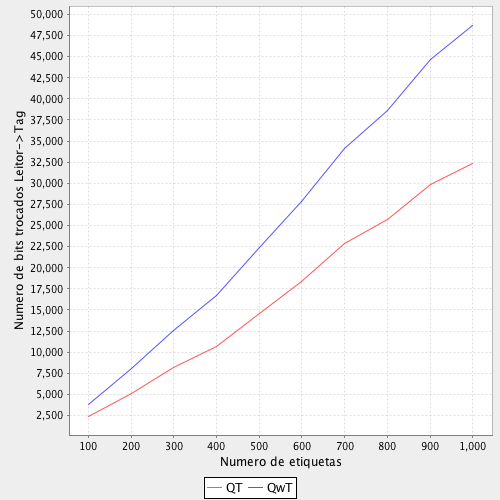
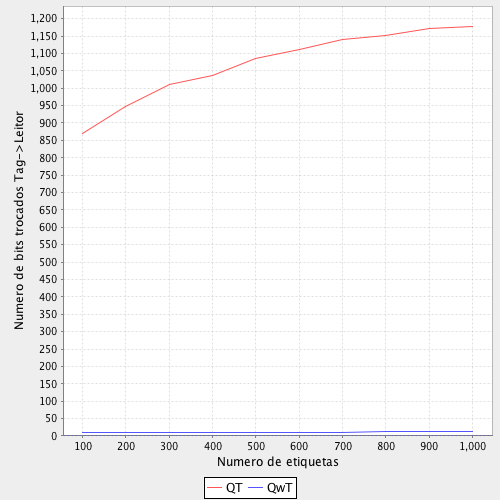
Corrigindo geracao do html

diff --git a/index/tree.html b/index/tree.html
@@ -6,13 +6,13 @@
 <body bgcolor="#EEEEEE">
 <h1>QT e QwT</h1>
 <h2>Bits transmitidos Leitor->Tag</h2>
-<img src="tree/bits-tag-leitor.png" />
-<img src="tree/artigo/bits-tag-leitor.png" />
-<h2>Bits Transmitidos Tag->Leitor</h2><img src="tree/bits-leitor-tag.png" />
-<img src="tree/artigo/bits-leitor-tag.png" />
+<img src="tree/bits-leitor-tag.png" />
+<img src="tree/artigo/bits-leitor-tag.png" height="500"/>
+<h2>Bits Transmitidos Tag->Leitor</h2><img src="tree/bits-tag-leitor.png" />
+<img src="tree/artigo/bits-tag-leitor.png"  height="500"/>
 <h2>Número de passos</h2>
 <img src="tree/iteracoes.png" />
-<img src="tree/artigo/iteracoes.png" />
+<img src="tree/artigo/iteracoes.png"  height="500"/>
 </body>
 </html>
 

diff --git a/src/tree/Main.java b/src/tree/Main.java
@@ -73,13 +73,13 @@ public class Main {
 				+ "<h1>QT e QwT</h1>\n"
 				+ "<h2>Bits transmitidos Leitor->Tag</h2>\n"
 				+ "<img src=\"tree/"+bitsReader.concat(fileExtension)+"\" />\n"
-				+ "<img src=\"tree/artigo/"+bitsReader.concat(fileExtension)+"\" />\n"
+				+ "<img src=\"tree/artigo/"+bitsReader.concat(fileExtension)+"\" height=\"500\"/>\n"
 				+ "<h2>Bits Transmitidos Tag->Leitor</h2>"
 				+ "<img src=\"tree/"+bitsTag.concat(fileExtension)+"\" />\n"
-				+ "<img src=\"tree/artigo/"+bitsTag.concat(fileExtension)+"\" />\n"
+				+ "<img src=\"tree/artigo/"+bitsTag.concat(fileExtension)+"\"  height=\"500\"/>\n"
 				+ "<h2>Número de passos</h2>\n"
 				+ "<img src=\"tree/"+iterations.concat(fileExtension)+"\" />\n"
-				+ "<img src=\"tree/artigo/"+iterations.concat(fileExtension)+"\" />\n"
+				+ "<img src=\"tree/artigo/"+iterations.concat(fileExtension)+"\"  height=\"500\"/>\n"
 				+ "</body>\n"
 				+ "</html>\n";
 
@@ -142,8 +142,8 @@ public class Main {
 			
 			// Gerar gr�ficos:
 			String iterationsFile = "iteracoes";
-			String bitsReaderFile = "bits-tag-leitor";
-			String bitsTagFile = "bits-leitor-tag";
+			String bitsReaderFile = "bits-leitor-tag";
+			String bitsTagFile = "bits-tag-leitor";
 			
 			String filesDir = "index/tree/";
 			String fileExtension = ".png";
